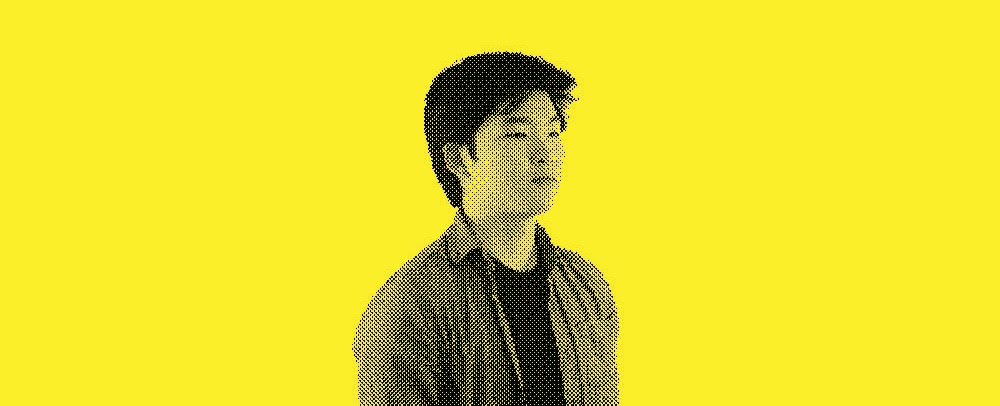
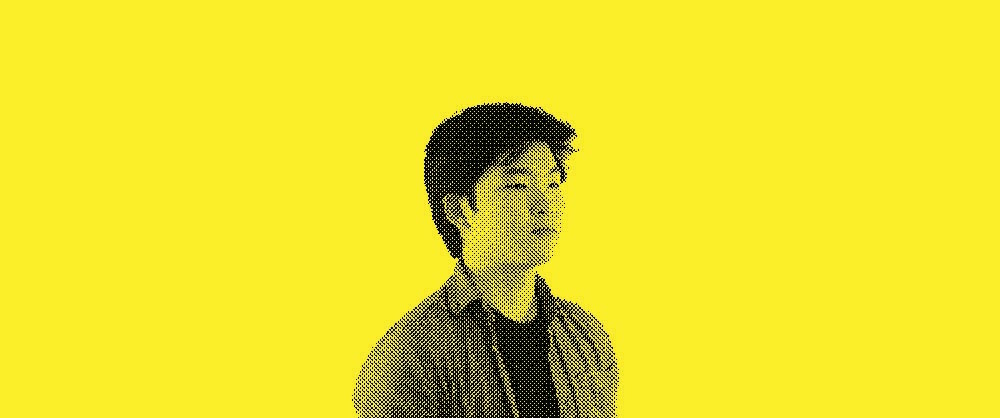
some mobile, some about

Changed region(s): [[0.341, 0.1182, 0.62, 1.0]]

diff --git a/index.html b/index.html
@@ -21,8 +21,10 @@
 <!-- **************** END HEAD *********************** -->
   <body>
     <!-- Sidebar -->   
-    <img src='images/mevertical.png' class="side-photo" onmouseover="this.src='images/mevertical2.png';" onmouseout="this.src='images/mevertical.png';" />
-
+    <a href="about.html">
+     <img src='images/mevertical.png' class="side-photo" onmouseover="this.src='images/mevertical2.png';" onmouseout="this.src='images/mevertical.png';" />
+    </a>
+    <a href="about.html" class="aboutme">ABOUT ME</a>
     <!-- Main Work in a section shown here-->
     <h1 id="title-top-text">DOYUNG LEE</h1>
     <div class="goodies">
@@ -129,4 +131,36 @@
                 </ul> 
             -->
     </div>
+  </body>
+  <style>
+  @media only screen and (max-width: 500px) {
+    .side-photo {
+        display: none;
+    }
+
+    #title-top-text {
+        top: -4px;
+        margin-left: 10px;
+        font-size: 24px;
+        width: 100%
+    }
+
+    .goodies {
+        top: 80px;
+    }
+
+    .photo-grid li figcaption {
+        opacity: 1;
+    }
+  }
+
+  @media only screen and (max-width: 750px) {
+    #title-top-text {
+        top: -4px;
+        margin-left: 10px;
+        font-size: 24px;
+        width: 100%
+    }
+  }
+  </style>
 <!-- /#wrapper -->

diff --git a/css/aboutme.css b/css/aboutme.css
@@ -30,3 +30,45 @@
 span.spacer {
   padding: 0 5px;
 }
+
+.navbar-doyung {
+  width: 100%;
+  right: 0;
+  left: 0;
+  margin-right: auto;
+  margin-left: auto;
+  position:fixed;
+  z-index:1;
+  background-color: #ffffff;
+}
+
+.navbar-heading {
+  font-family: 'Roboto';
+  font-weight: bolder;
+  font-size: 18px;
+  letter-spacing: 1px;
+  text-align: center;
+  display: block;
+  margin: 0px;
+  padding-top: 10px;
+  padding-bottom: 10px;
+}
+
+.navbar-link {
+  color: #000000;
+}
+
+.navbar-link:hover {
+  color: #999999;
+  text-decoration: none;
+}
+
+.section-header {
+  font-size: 24px;
+  font-family: Roboto;
+  letter-spacing: 2px;
+  font-weight: bolder;
+  color: #444444;
+  margin-bottom: 0px;
+  margin-left: 25px;
+}

diff --git a/about.html b/about.html
@@ -19,6 +19,9 @@
     <link href="https://fonts.googleapis.com/css?family=Roboto:bolder" rel="stylesheet">
   </head>
 <!-- **************** END HEAD *********************** -->
+    <div class="navbar-doyung">
+     <a href="index.html" class="navbar-link"><p class="navbar-heading">DOYUNG LEE</p></a>
+    </div>
     <h1 class="header-text" >
       <span class="header-text-span">
        The Story So Far...<span class='spacer'></span><br /><span class='spacer'></span>A Little Bit About Me
@@ -90,5 +93,6 @@
           }
         }
     </script>
-    
+    <h2 class="section-header">Coming Soon! Meanwhile, feel free to draw on my face.</h2>
+
     

diff --git a/css/homepage.css b/css/homepage.css
@@ -213,6 +213,29 @@ span.spacer {
   background-color: #ffffff;
 }
 
+.aboutme {
+  color: #000000;
+  position: absolute;
+  top: 10px;
+  right: 40px;
+  font-size: 18px;
+  font-family: 'Roboto';
+  font-weight: bolder;
+  background-color: #FF69C4;
+  padding: 5px;
+  letter-spacing: 1px;
+}
+
+.aboutme:link{
+  color: #000000;
+  text-decoration: none;
+} 
+.aboutme:hover{
+  color: #ffffff;
+  text-decoration: none;
+}
+
+
 /*-------- Navbar Shenanigans ---------------------------*/
 
 .navbar-default .navbar-brand {
